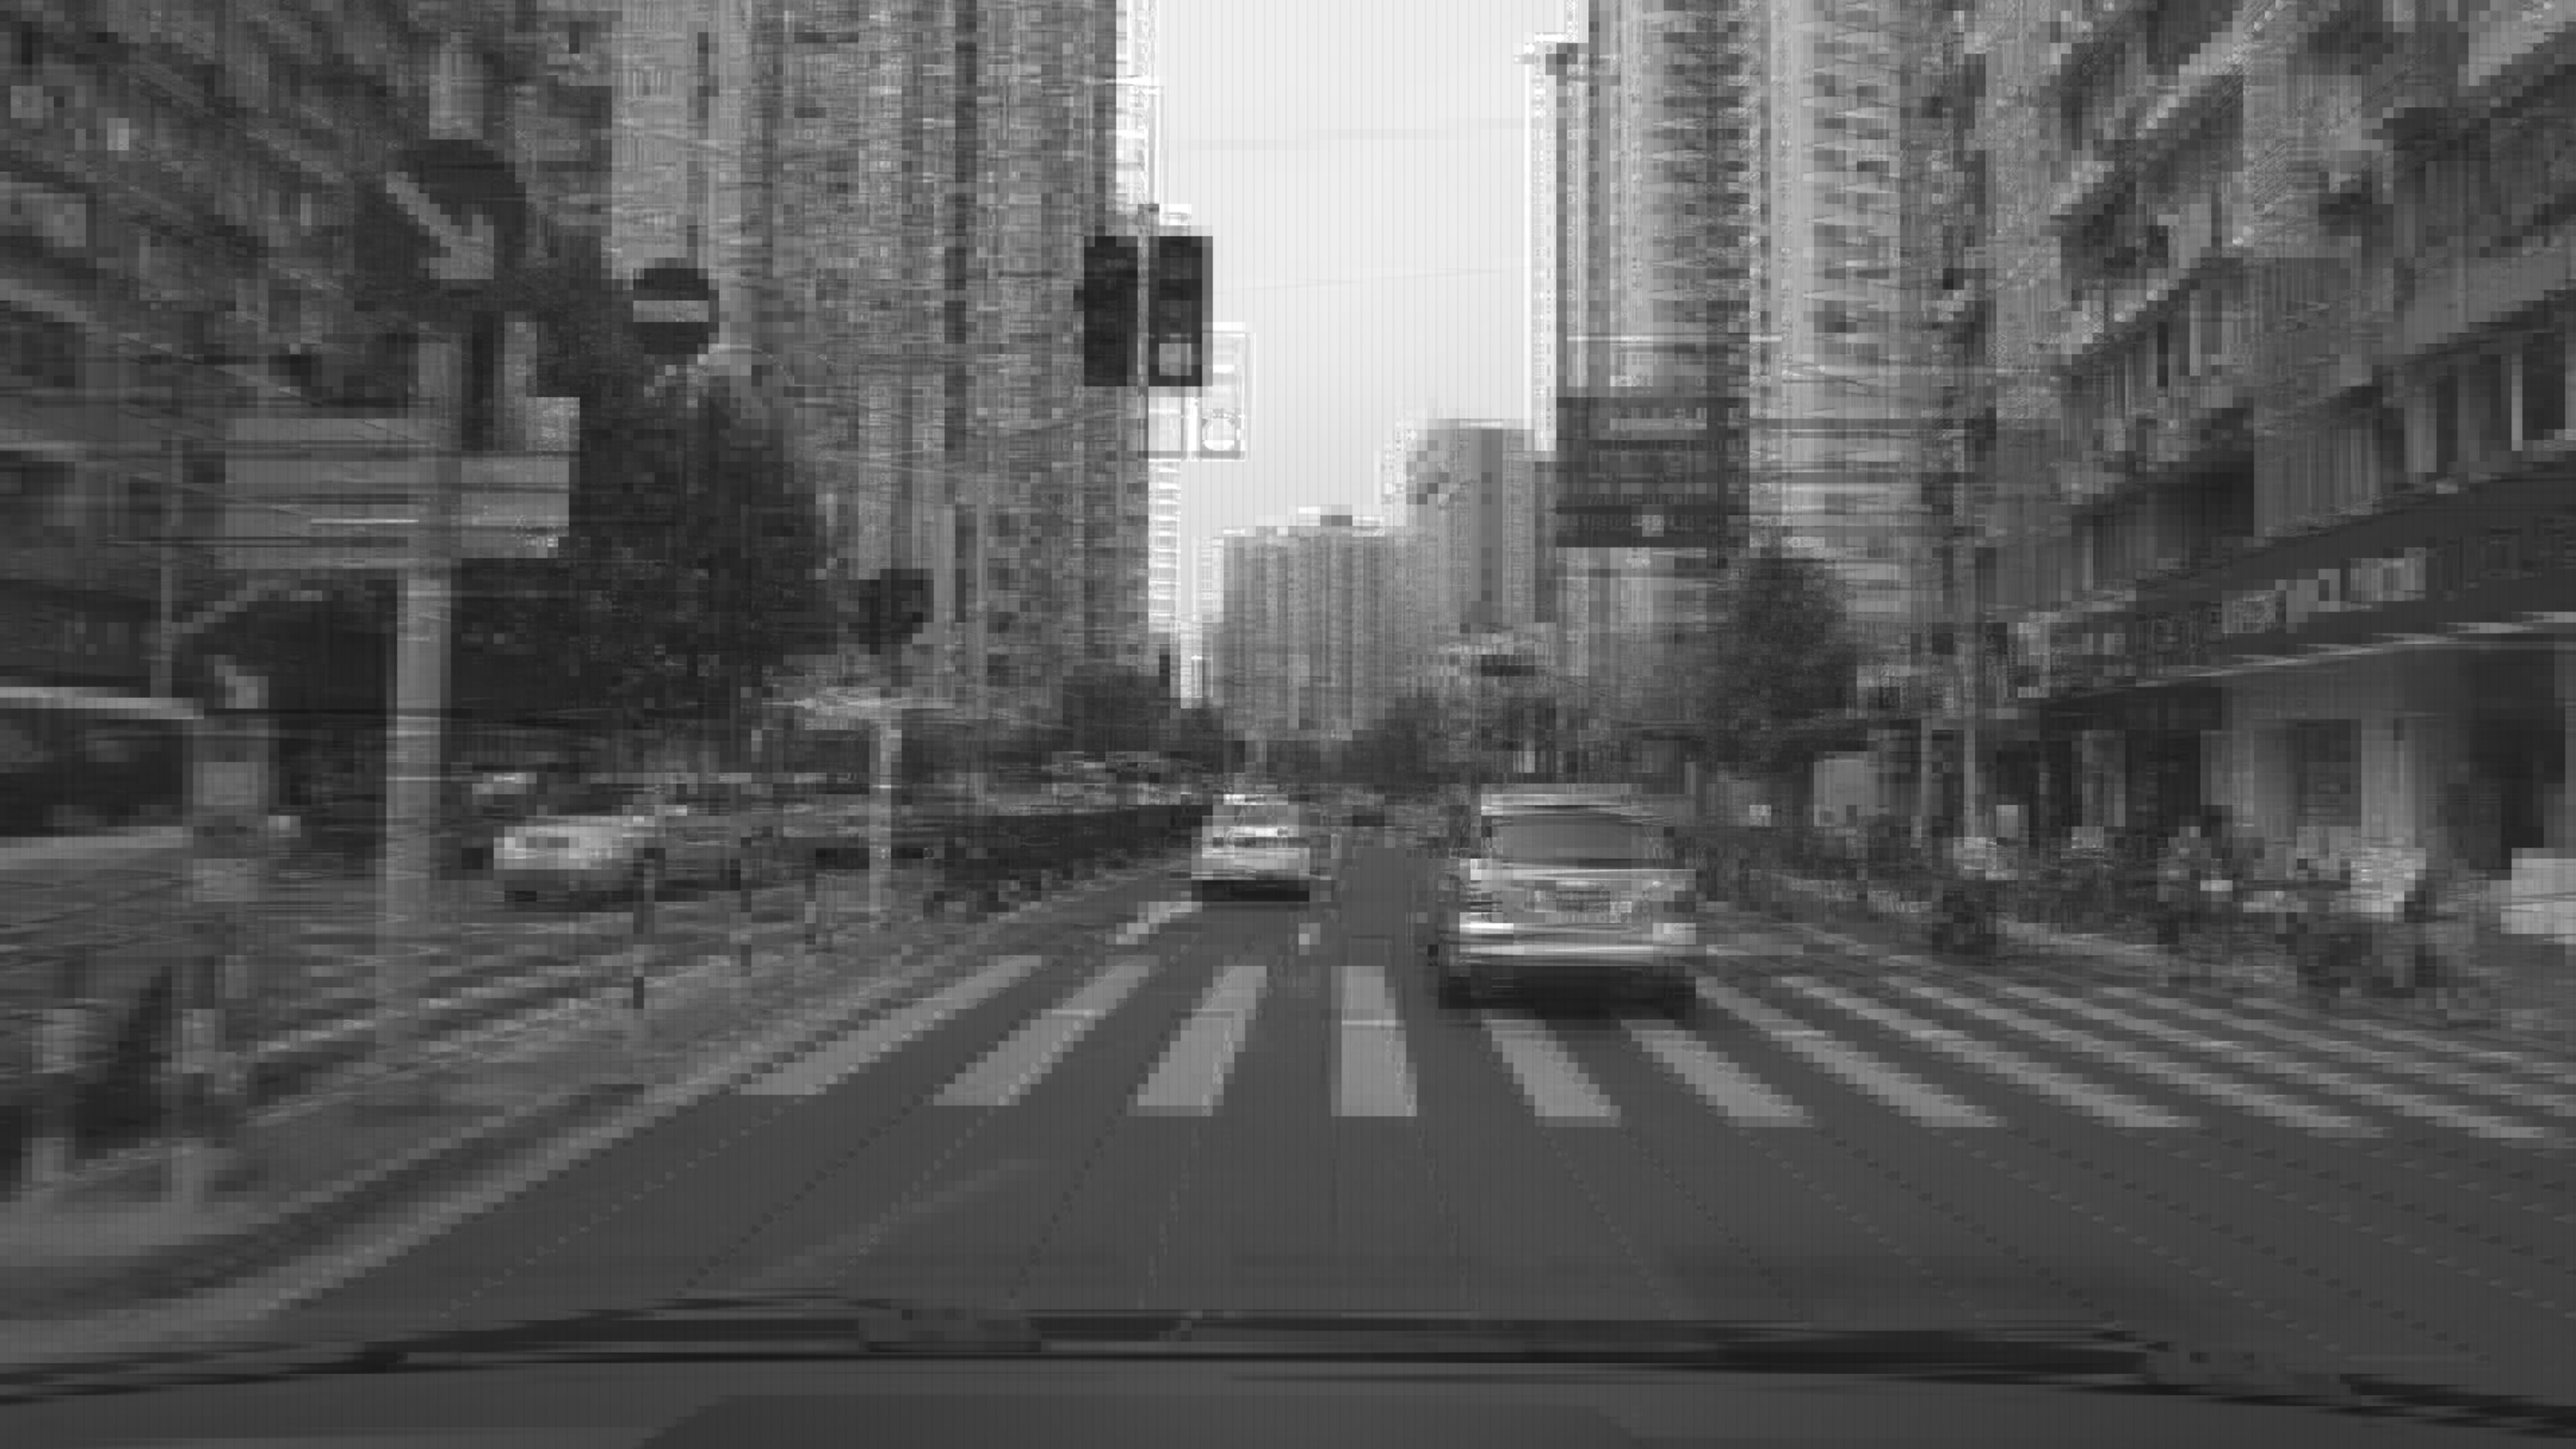
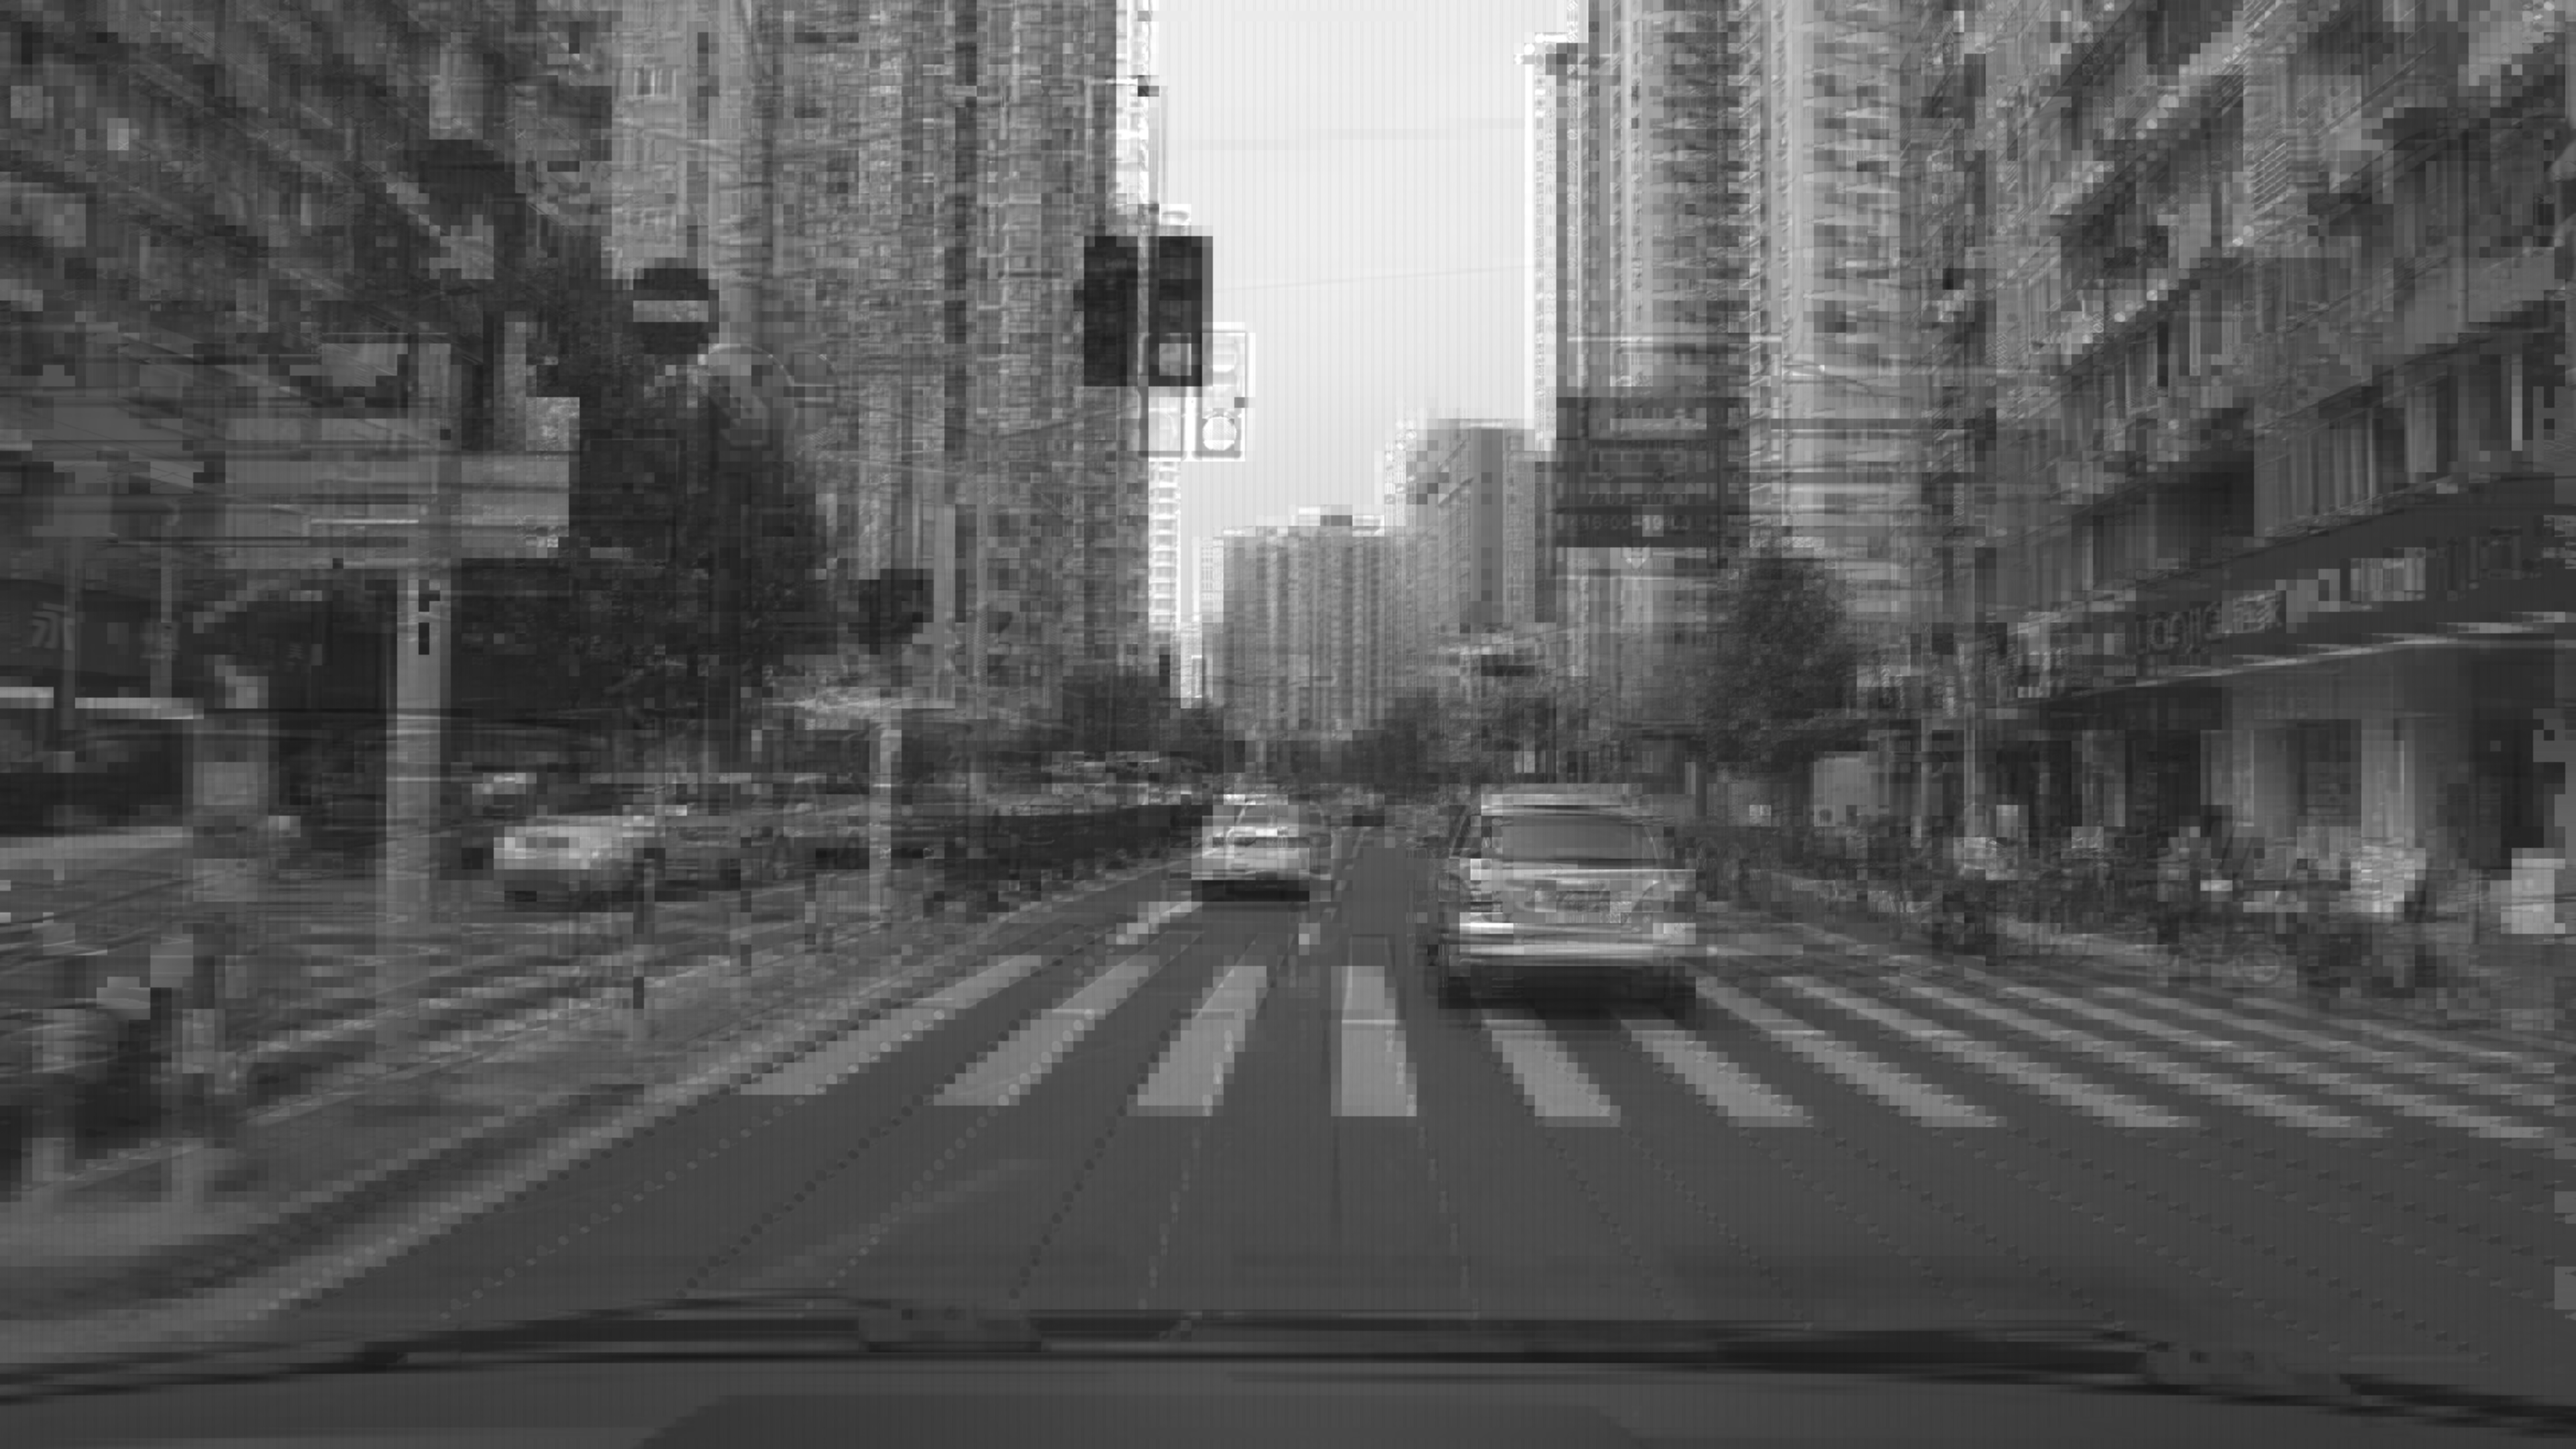
do background segmentation with unet, but not good

diff --git a/MediaTek_Materials/utils.py b/MediaTek_Materials/utils.py
@@ -9,6 +9,10 @@ from skimage import img_as_float
 from skimage.measure import ransac
 from scipy.signal import convolve2d
 from tqdm import tqdm
+import segmentation_models_pytorch as smp
+import torch
+import torchvision.transforms as transforms
+from PIL import Image
 
 BLOCK_SIZE = 16
 
@@ -268,12 +272,41 @@ def illuminance_compensation(ref_block, tgt_block):
     compensation_factor = tgt_mean / ref_mean if ref_mean != 0 else 1
     return ref_block * compensation_factor
 
-# Function to apply global motion compensation with boundary handling
-def apply_gmc(target_frame, reference_frames, target_index):
+# Function to load the pre-trained U-Net model
+def load_unet_model():
+    model = smp.Unet('resnet34', encoder_weights='imagenet', classes=1, activation='sigmoid')
+    model.eval()
+    return model
+
+# Improved segmentation function using U-Net
+def segment_foreground_background(image, model):
+    # Transform the image to tensor
+    transform = transforms.Compose([
+        transforms.ToPILImage(),
+        transforms.Resize((256, 256)),
+        transforms.ToTensor(),
+        transforms.Normalize([0.485, 0.456, 0.406], [0.229, 0.224, 0.225]),
+    ])
+    
+    # Convert grayscale to 3-channel
+    if len(image.shape) == 2:
+        image = cv2.cvtColor(image, cv2.COLOR_GRAY2BGR)
+    
+    image_tensor = transform(image).unsqueeze(0)  # Add batch dimension
+    
+    with torch.no_grad():
+        mask = model(image_tensor)[0][0]  # Get the predicted mask
+    
+    mask = (mask > 0.5).numpy().astype('uint8') * 255  # Convert to binary mask
+    
+    return cv2.resize(mask, (image.shape[1], image.shape[0]))
+
+# Function to apply global motion compensation with boundary handling and segmentation
+def apply_gmc_with_segmentation(target_frame, reference_frames, target_index, model):
     h, w = target_frame.shape
     compensated_frame = np.zeros_like(target_frame)
 
-    # Derive a global motion model using the entire frame
+    # Derive global motion models using the entire frame
     affine_matrix_0 = derive_affine_motion_model(reference_frames[0], target_frame)
     perspective_matrix_0 = derive_perspective_motion_model(reference_frames[0], target_frame)
     affine_matrix_1 = derive_affine_motion_model(reference_frames[1], target_frame)
@@ -282,13 +315,19 @@ def apply_gmc(target_frame, reference_frames, target_index):
     if affine_matrix_0 is None or perspective_matrix_0 is None or affine_matrix_1 is None or perspective_matrix_1 is None:
         raise ValueError("Failed to derive motion models for the entire frame.")
 
+    # Segment the target frame into foreground and background
+    segmentation_mask = segment_foreground_background(target_frame, model)
+
+    # Save the segmentation mask for debugging/visualization
+    # segmentation_mask_filename = f'./processed_output/segmentation_masks/segmentation_mask_{target_index}.png'
+    # cv2.imwrite(segmentation_mask_filename, segmentation_mask)
+
     # Process each block in the frame
     blocks = divide_into_blocks(target_frame, block_size=16)
     selection_map, std_blocks = generate_selection_map(target_frame, block_size=16)
-    # selected_blocks = select_luma_blocks(blocks, target_frame, target_index, selection_map, std_blocks, num_blocks=13000)
     selected_blocks = blocks
 
-    for (i, j, block) in tqdm(selected_blocks):
+    for (i, j, block) in tqdm(selected_blocks, desc="Processing Blocks", unit="block"):
         ref_block_0 = reference_frames[0][i:i+block.shape[0], j:j+block.shape[1]]
         ref_block_1 = reference_frames[1][i:i+block.shape[0], j:j+block.shape[1]]
 
@@ -297,26 +336,33 @@ def apply_gmc(target_frame, reference_frames, target_index):
             print(f"Skipping block at ({i}, {j}) due to size mismatch.")
             continue
 
-        # Apply the interpolation filter (post-processing)
-        ref_block_0 = apply_interpolation_filter(ref_block_0, filter_index=5)  # Example filter index
-        ref_block_1 = apply_interpolation_filter(ref_block_1, filter_index=5)  # Example filter index
+        # Determine if the block is foreground or background
+        if np.mean(segmentation_mask[i:i+block.shape[0], j:j+block.shape[1]]) > 128:  # Foreground
+            # Apply the interpolation filter (post-processing)
+            ref_block_0 = apply_interpolation_filter(ref_block_0, filter_index=5)  # Example filter index
+            ref_block_1 = apply_interpolation_filter(ref_block_1, filter_index=5)  # Example filter index
 
-        # Apply illuminance compensation (post-processing)
-        ref_block_0 = illuminance_compensation(ref_block_0, block)
-        ref_block_1 = illuminance_compensation(ref_block_1, block)
+            # Apply illuminance compensation (post-processing)
+            ref_block_0 = illuminance_compensation(ref_block_0, block)
+            ref_block_1 = illuminance_compensation(ref_block_1, block)
 
-        # print(f"Block min/max before transform at ({i}, {j}):", block.min(), block.max())
-        compensated_block_affine_0 = apply_affine_transform(ref_block_0, affine_matrix_0)
-        compensated_block_perspective_0 = apply_perspective_transform(ref_block_0, perspective_matrix_0)
-        compensated_block_affine_1 = apply_affine_transform(ref_block_1, affine_matrix_1)
-        compensated_block_perspective_1 = apply_perspective_transform(ref_block_1, perspective_matrix_1)
+            # Apply affine and perspective transforms
+            compensated_block_affine_0 = apply_affine_transform(ref_block_0, affine_matrix_0)
+            compensated_block_perspective_0 = apply_perspective_transform(ref_block_0, perspective_matrix_0)
+            compensated_block_affine_1 = apply_affine_transform(ref_block_1, affine_matrix_1)
+            compensated_block_perspective_1 = apply_perspective_transform(ref_block_1, perspective_matrix_1)
 
-        # Blend the compensated blocks
-        final_blended_block_0 = (compensated_block_affine_0.astype(np.float32) + compensated_block_perspective_0.astype(np.float32)) / 2
-        final_blended_block_1 = (compensated_block_affine_1.astype(np.float32) + compensated_block_perspective_1.astype(np.float32)) / 2
-        final_blended_block = ((final_blended_block_0 + final_blended_block_1) / 2).astype(np.uint8)
+            # Blend the compensated blocks
+            final_blended_block_0 = (compensated_block_affine_0.astype(np.float32) + compensated_block_perspective_0.astype(np.float32)) / 2
+            final_blended_block_1 = (compensated_block_affine_1.astype(np.float32) + compensated_block_perspective_1.astype(np.float32)) / 2
+            final_blended_block = ((final_blended_block_0 + final_blended_block_1) / 2).astype(np.uint8)
+        else:  # Background
+            # Use only the affine transformation for the background
+            compensated_block_affine_0 = apply_affine_transform(ref_block_0, affine_matrix_0)
+            compensated_block_affine_1 = apply_affine_transform(ref_block_1, affine_matrix_1)
 
-        # print(f"Blended block at ({i}, {j}) min/max:", final_blended_block.min(), final_blended_block.max())
+            # Blend the compensated blocks
+            final_blended_block = ((compensated_block_affine_0.astype(np.float32) + compensated_block_affine_1.astype(np.float32)) / 2).astype(np.uint8)
 
         # Update the compensated frame
         compensated_frame[i:i+block.shape[0], j:j+block.shape[1]] = final_blended_block
@@ -325,4 +371,6 @@ def apply_gmc(target_frame, reference_frames, target_index):
     compensated_frame = deblocking_filter(compensated_frame)
 
     return compensated_frame
+
+
 

diff --git a/MediaTek_Materials/main.py b/MediaTek_Materials/main.py
@@ -1,7 +1,16 @@
-from utils import apply_gmc
+from utils import apply_gmc_with_segmentation
 import cv2
 import os
 from tqdm import tqdm
+import segmentation_models_pytorch as smp
+import torch
+import torchvision.transforms as transforms
+from PIL import Image
+
+def load_unet_model():
+    model = smp.Unet('resnet34', encoder_weights='imagenet', classes=1, activation='sigmoid')
+    model.eval()
+    return model
 
 def main():
     # Example processing order
@@ -146,7 +155,8 @@ def main():
     # Load YUV frames
     frames = []
     folder_path = './YUV_frames/'
-    for i in tqdm(range(129)):
+    # print('Loading luma frames...')
+    for i in tqdm(range(129), desc="Loading frames", unit="frame"):
         idx = str(i).zfill(3)
         img_pth = folder_path + idx + '.png'
 
@@ -167,11 +177,11 @@ def main():
     print()
 
     # Process frames based on hierarchical-B order
-    for target_index, ref_index_0, ref_index_1 in tqdm(processing_order):
+    for target_index, ref_index_0, ref_index_1 in tqdm(processing_order, desc="Processing frames", unit="frame"):
         # print(target_index, ref_index_0, ref_index_1)
         target_frame = frames[target_index]
         reference_frames = [frames[ref_index_0], frames[ref_index_1]]
-        compensated_frame = apply_gmc(target_frame, reference_frames, target_index)
+        compensated_frame = apply_gmc_with_segmentation(target_frame, reference_frames, target_index, model=unet_model)
         # interpolated_frame = interpolate_black_regions(compensated_frame)
         # Save or further process the compensated frame
         cv2.imwrite(f'./processed_output/compensated_frame/{target_index}.png', compensated_frame)
@@ -181,4 +191,6 @@ def main():
 
 
 if __name__ == '__main__':
+    # Load the U-Net model
+    unet_model = load_unet_model()
     main()
